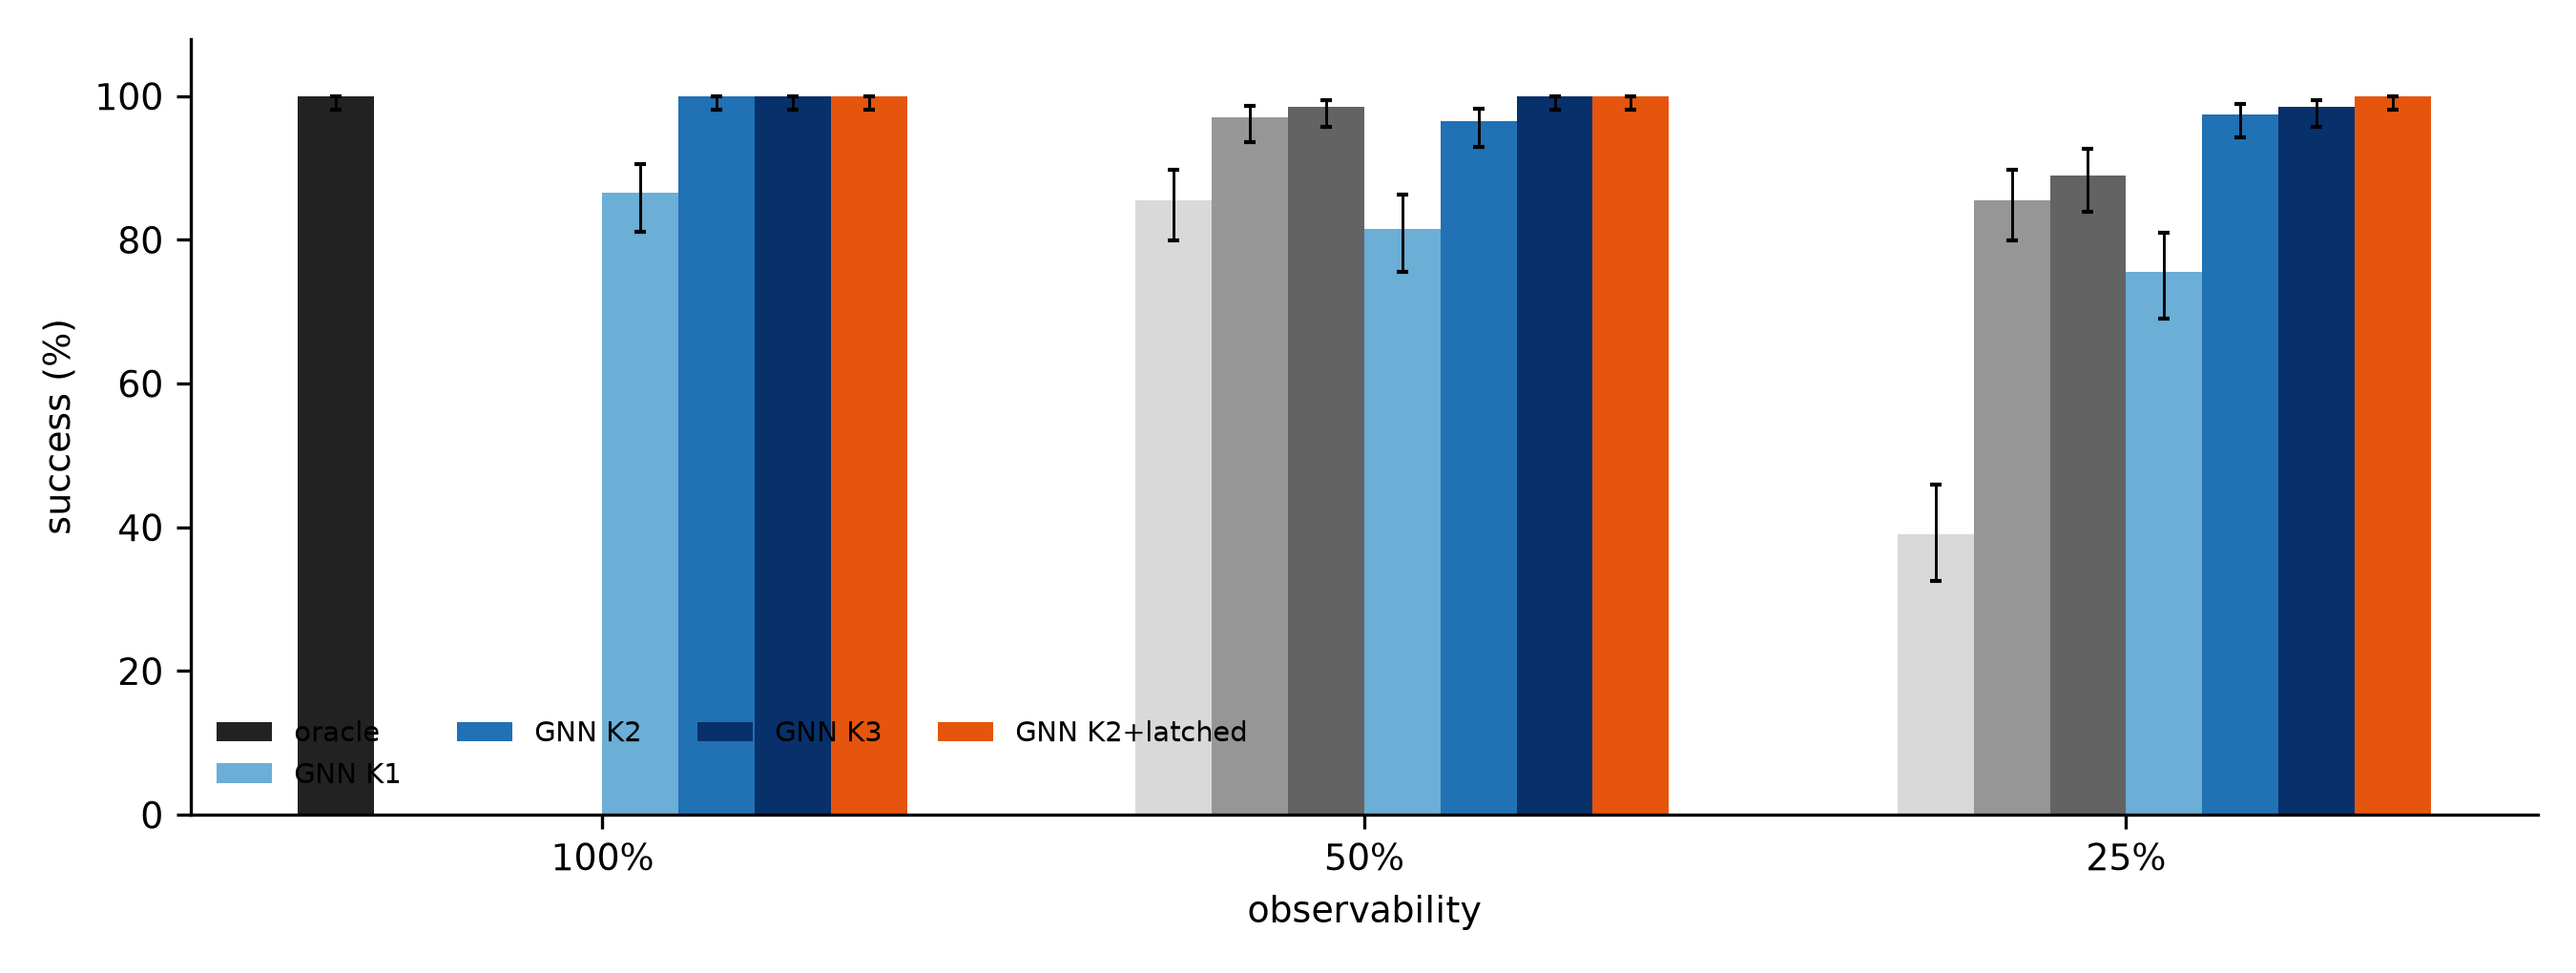
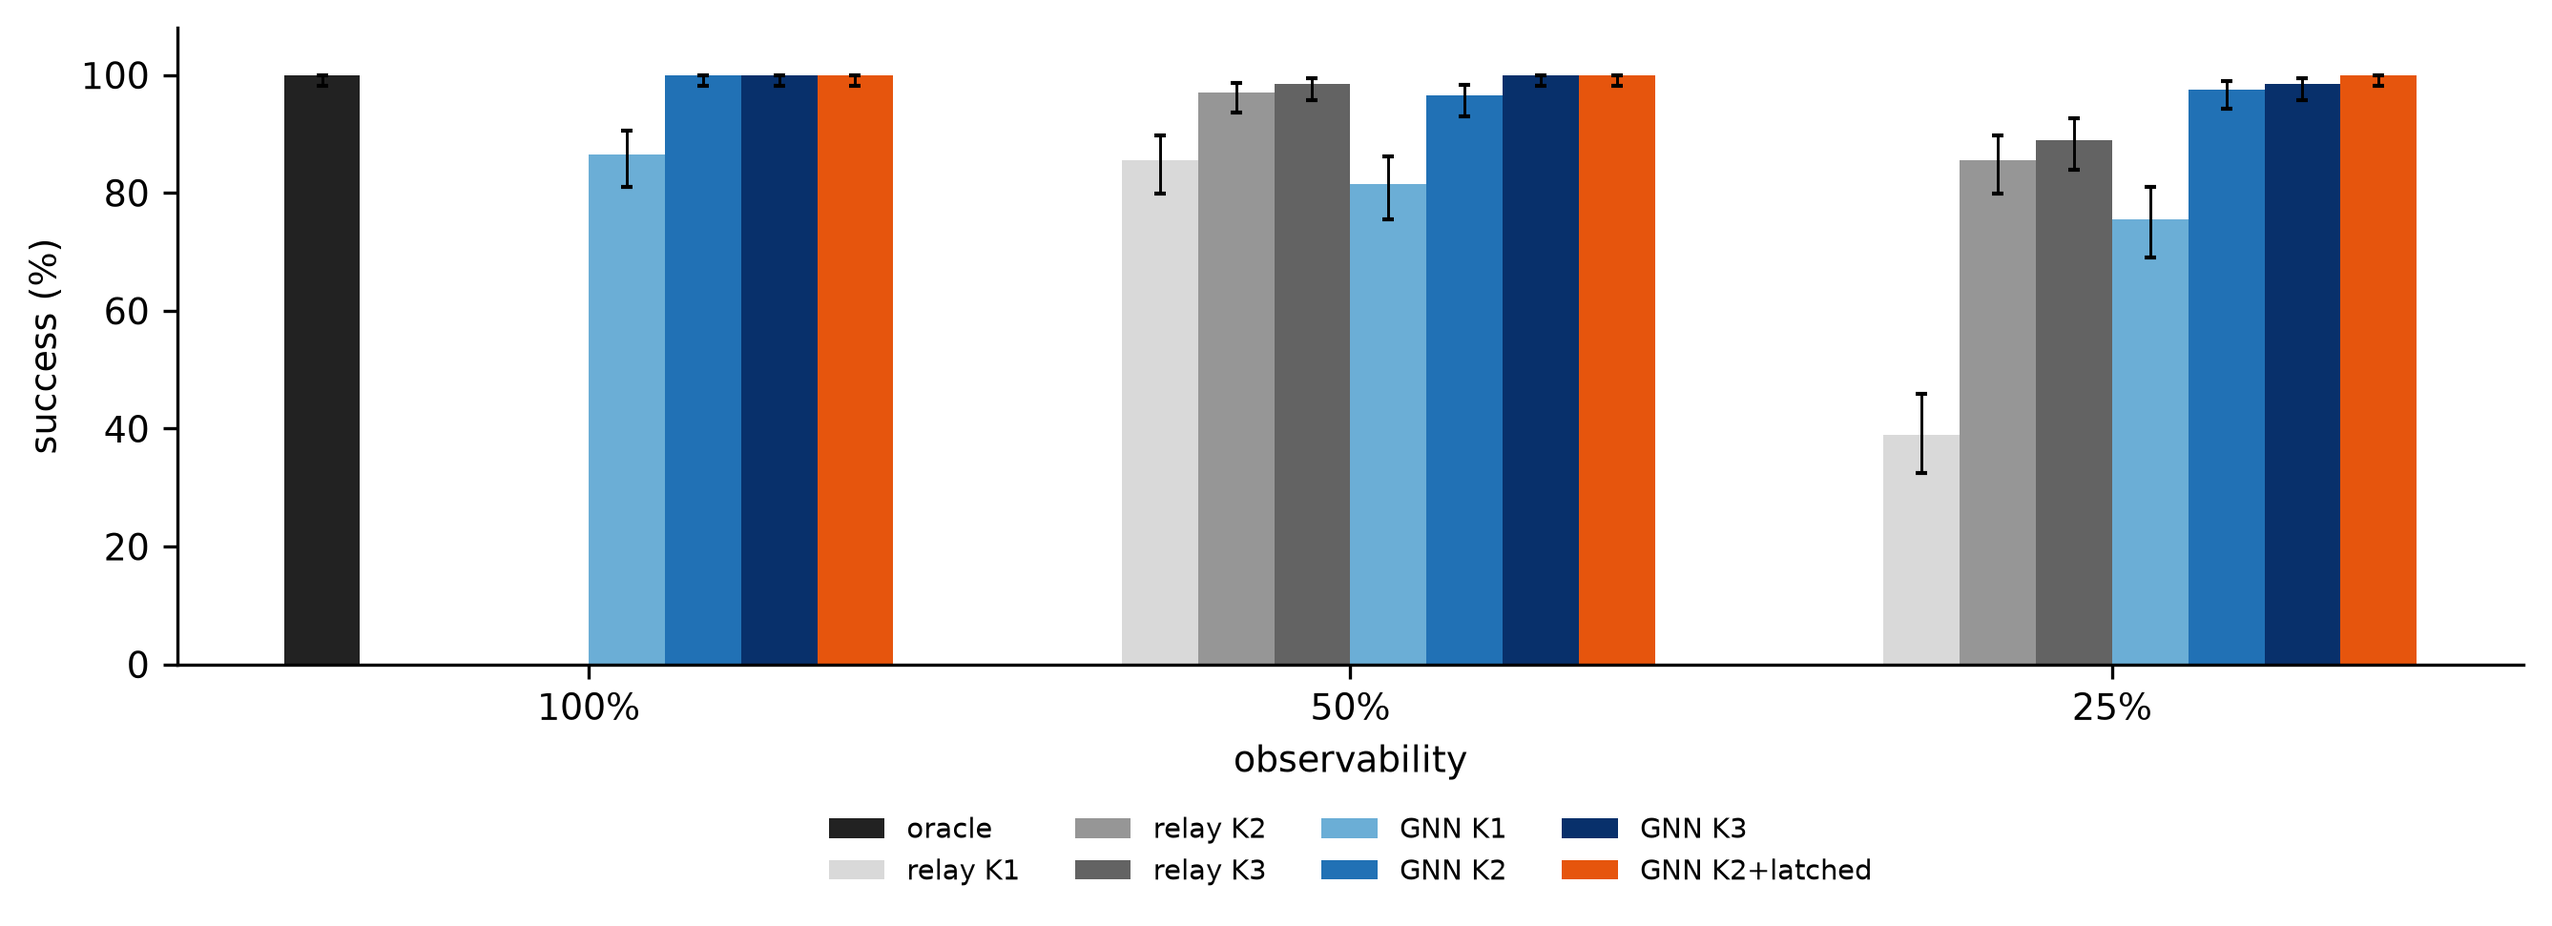
Day 8: fix figure legends

diff --git a/src/d8_make_figures.py b/src/d8_make_figures.py
@@ -100,17 +100,18 @@ def fig_success_vs_K(S, figs):
 
 def fig_main_bars(S, figs):
     pols = [p for p in ["oracle", "relay K1", "relay K2", "relay K3", "GNN K1", "GNN K2", "GNN K3", "GNN K2+latched"] if p in set(S.policy)]
-    fig, ax = plt.subplots(figsize=(9, 3.4)); w = 0.8 / len(pols)
+    fig, ax = plt.subplots(figsize=(9, 3.4)); w = 0.8 / len(pols); labelled = set()
     for j, pol in enumerate(pols):
         for i, pct in enumerate((100, 50, 25)):
             r = S[(S.policy == pol) & (S.obs_pct == pct)]
             if len(r):
                 r = r.iloc[0]
-                ax.bar(i + j * w, r.success_pct, w, color=COL[pol], label=pol if i == 0 else None,
+                ax.bar(i + j * w, r.success_pct, w, color=COL[pol], label=pol if pol not in labelled else None,
                        yerr=[[r.success_pct - r.ci95_lo], [r.ci95_hi - r.success_pct]], capsize=1.5, error_kw=dict(lw=0.7))
+                labelled.add(pol)
     ax.set_xticks([i + 0.4 - w / 2 for i in range(3)]); ax.set_xticklabels(["100%", "50%", "25%"])
     ax.set_xlabel("observability"); ax.set_ylabel("success (%)"); ax.set_ylim(0, 108)
-    ax.legend(ncol=4, fontsize=7, frameon=False, loc="lower left"); fig.tight_layout(); fig.savefig(figs / "figB_main_success.png", dpi=300); plt.close(fig)
+    ax.legend(ncol=4, fontsize=7, frameon=False, loc="upper center", bbox_to_anchor=(0.5, -0.2)); fig.tight_layout(); fig.savefig(figs / "figB_main_success.png", dpi=300, bbox_inches="tight"); plt.close(fig)
 
 
 def fig_token_coverage(figs):
